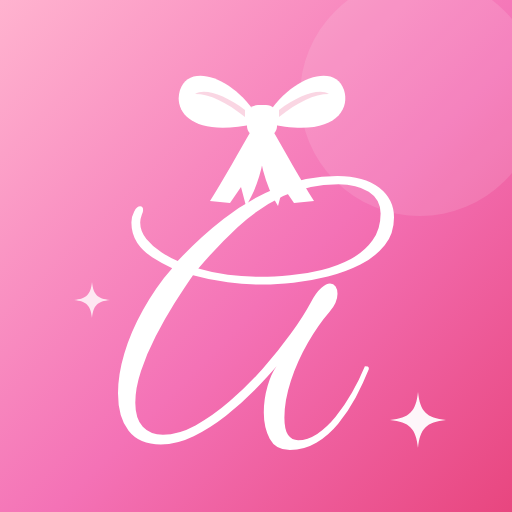
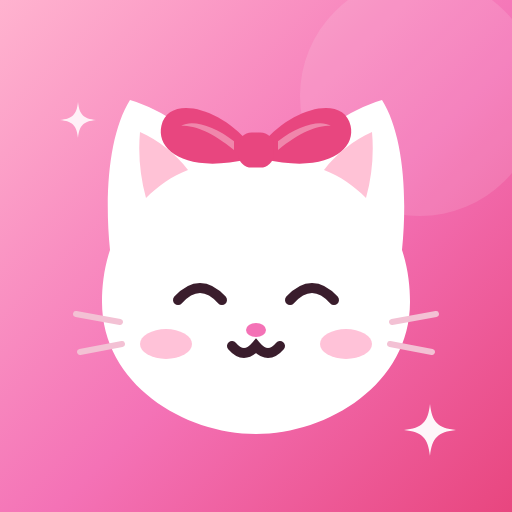
Cambiar el ícono por una gatita original con moño

diff --git a/prototype/index.html b/prototype/index.html
@@ -10,8 +10,8 @@
 <meta name="apple-mobile-web-app-title" content="Glow Up">
 <meta name="apple-mobile-web-app-status-bar-style" content="default">
 <link rel="manifest" href="manifest.webmanifest">
-<link rel="icon" href="icon.svg?v=2" type="image/svg+xml">
-<link rel="apple-touch-icon" href="icon-192.png?v=2">
+<link rel="icon" href="icon.svg?v=3" type="image/svg+xml">
+<link rel="apple-touch-icon" href="icon-192.png?v=3">
 <script src="config.js"></script>
 <link rel="preconnect" href="https://fonts.googleapis.com">
 <link rel="preconnect" href="https://fonts.gstatic.com" crossorigin>

diff --git a/prototype/sw.js b/prototype/sw.js
@@ -1,5 +1,5 @@
 // Mi Glow Up: guarda la app para usarla sin internet y muestra los avisos.
-const CACHE = 'glow-v5';
+const CACHE = 'glow-v6';
 const SHELL = ['./index.html', './config.js', './vendor/supabase.js', './manifest.webmanifest', './icon.svg', './icon-192.png', './icon-512.png'];
 
 self.addEventListener('install', e => {
